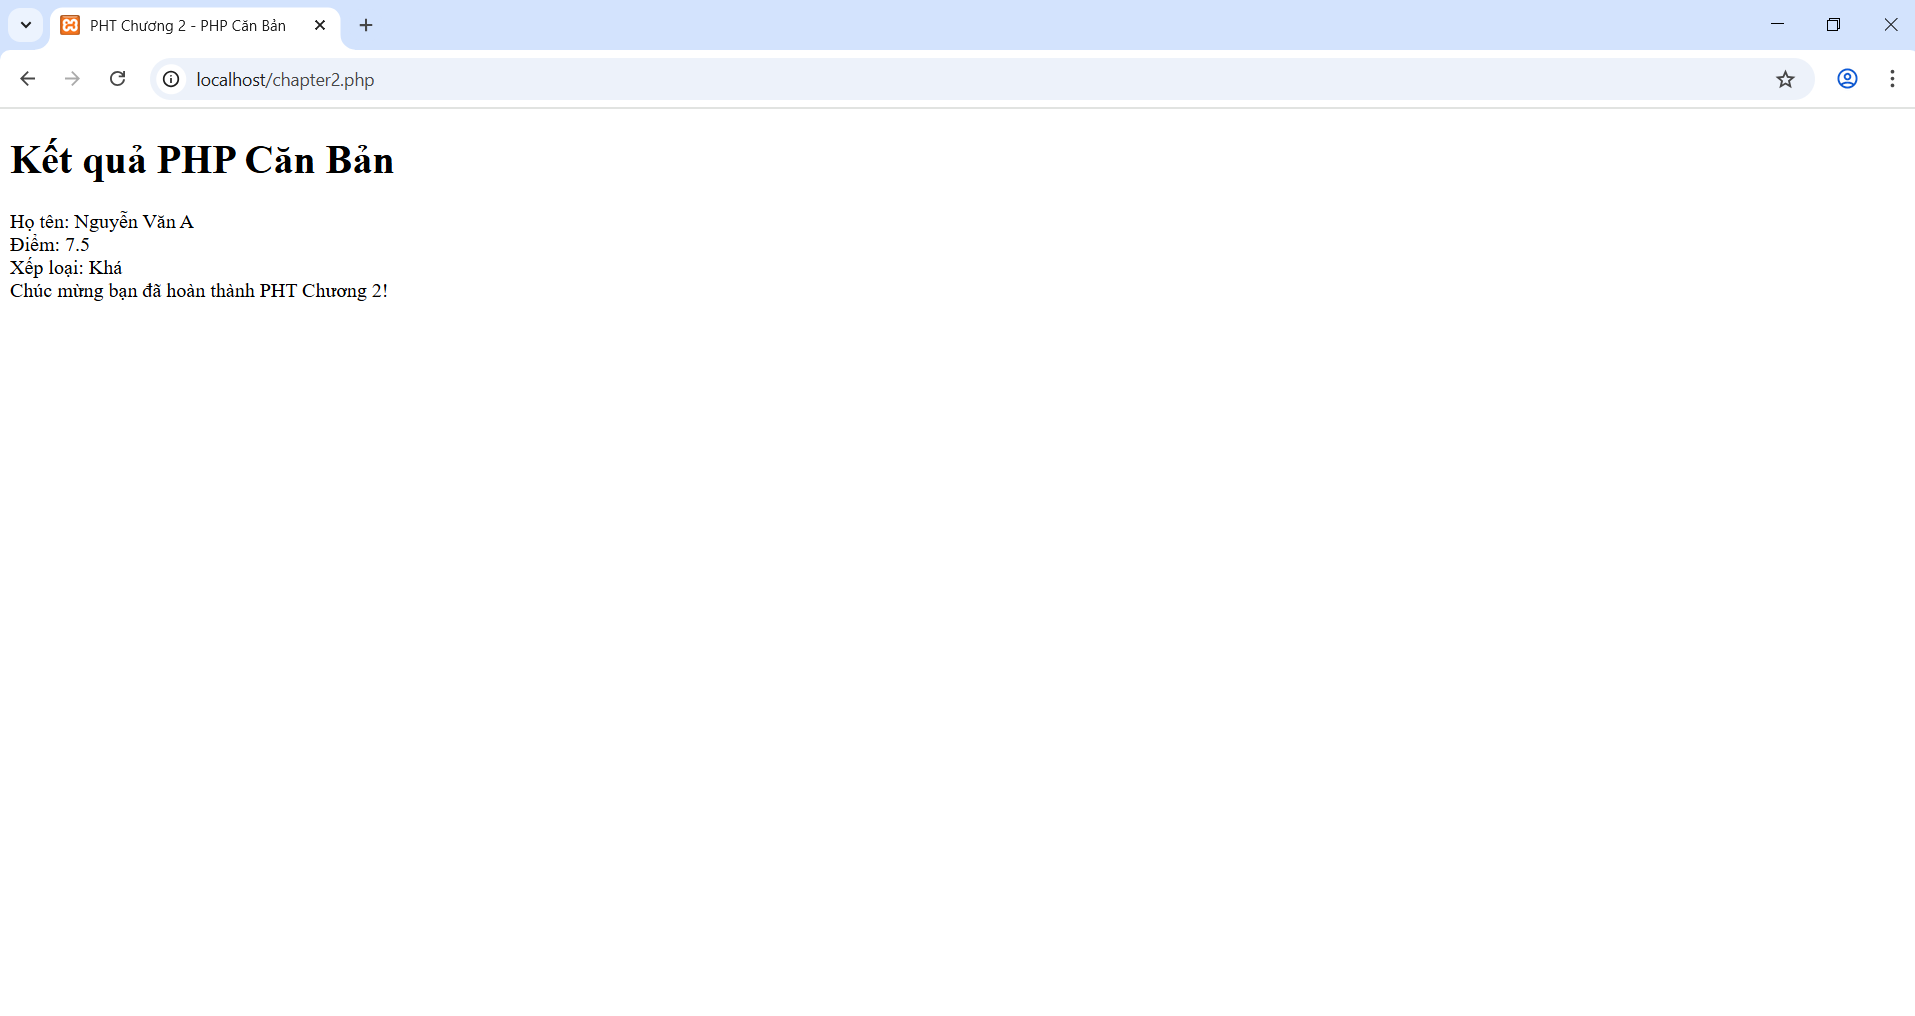
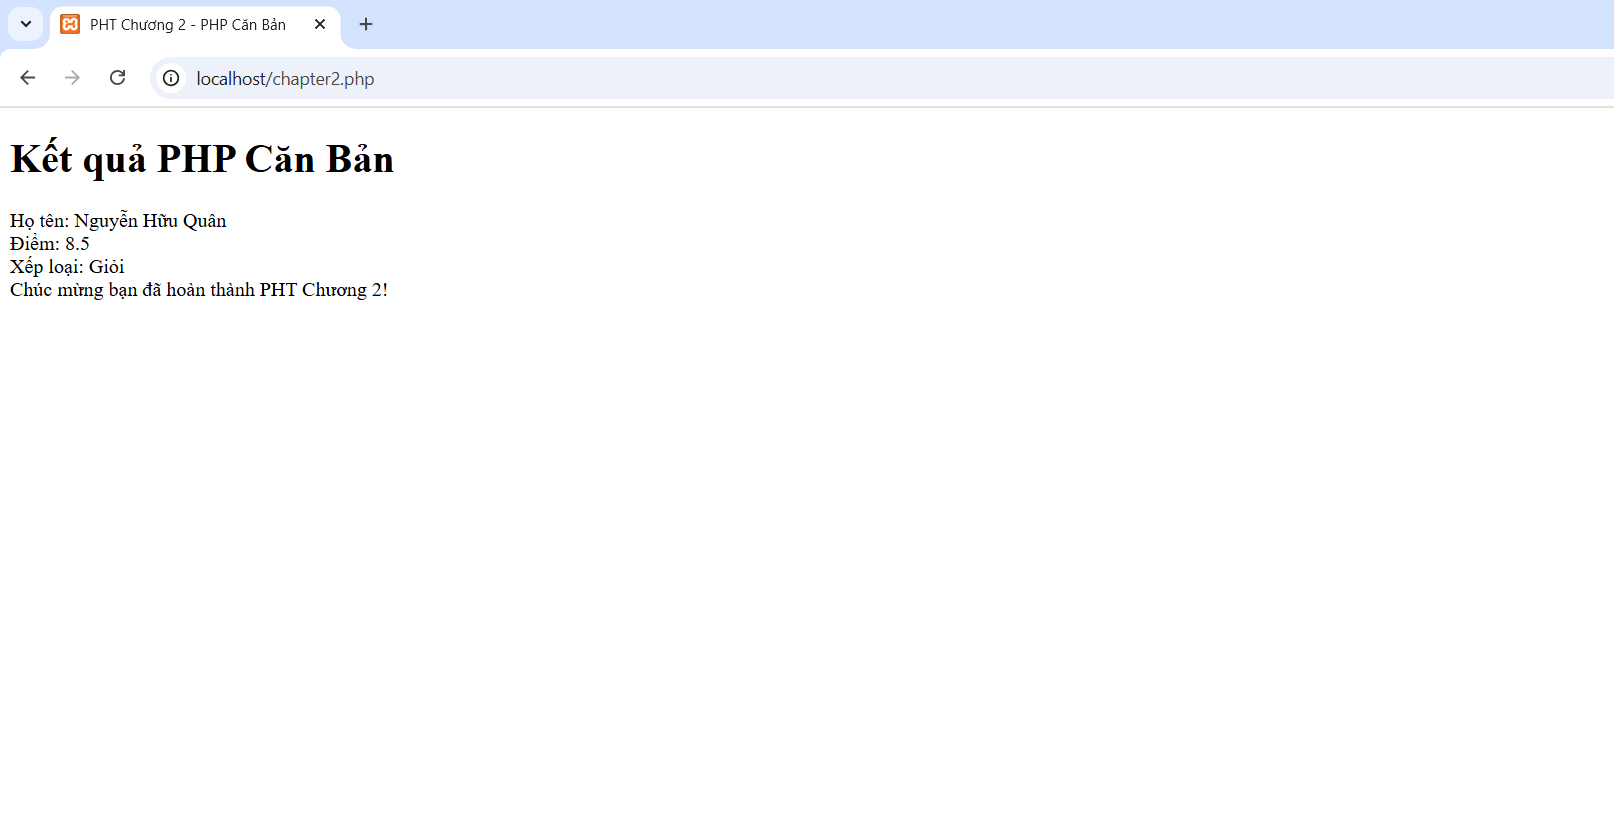
Upload project

Changed region(s): [[0.0, 0.0, 1.0, 0.3632]]

diff --git a/chapter2.php b/chapter2.php
@@ -13,8 +13,8 @@
     // =============================
     // TODO 1: Khai báo 3 biến
     // =============================
-    $ho_ten = "Nguyễn Văn A";
-    $diem_tb = 7.5;
+    $ho_ten = "Nguyễn Hữu Quân";
+    $diem_tb = 8.5;
     $co_di_hoc_chuyen_can = true;
 
     // =============================
